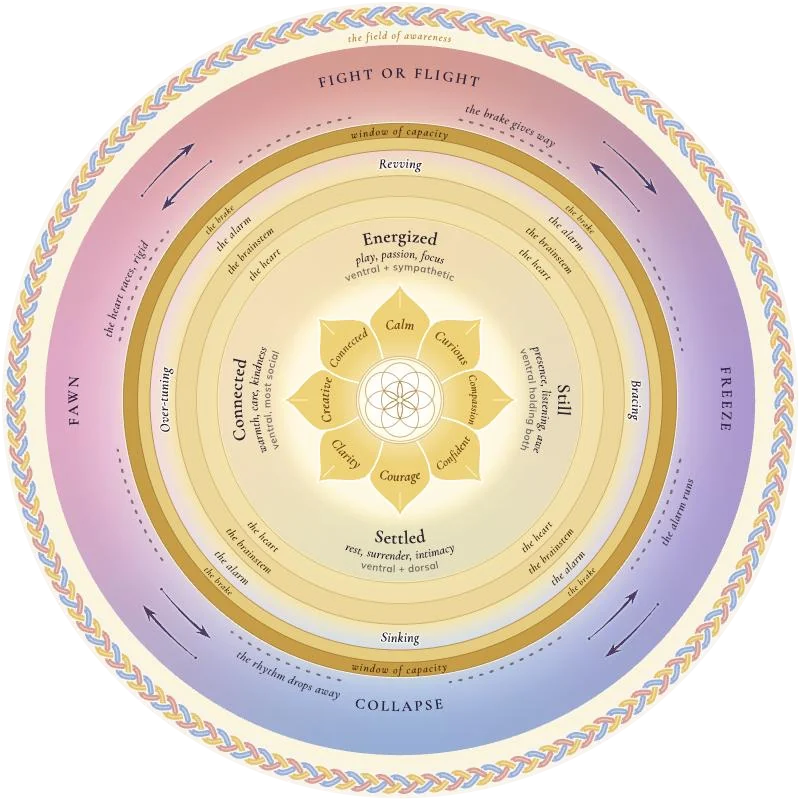
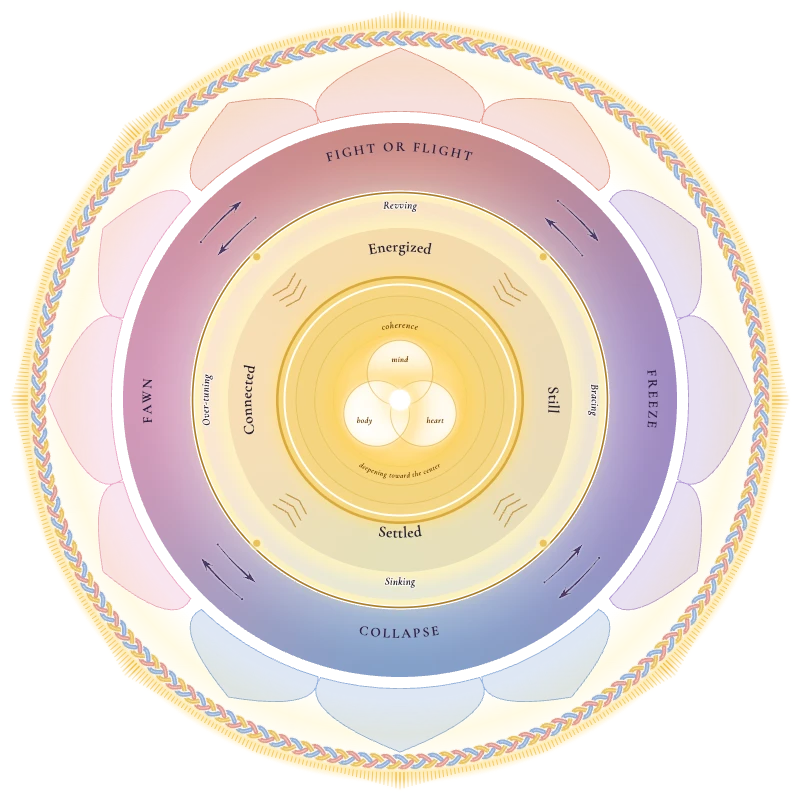
Window Mandala card: the nervous system and its rhythms, with a fresh wheel

diff --git a/index.html b/index.html
@@ -100,9 +100,9 @@ const MANDALAS=[
    text:"A map for returning to your own earliest story: the child you were at the center, the seven rights of growing up around them, and what heals each one in you now.",
    alt:"Plum petals around a Seed of Life, ringed by the seven rights of growing up"},
   {name:"The Window Mandala", href:"https://erinsarita.github.io/window-mandala/", img:"img/window.webp", imgDark:"img/window-dark.webp", themeKey:"wm-theme",
-   eyebrow:"The nervous system and the Self", tint:["#A8771E","#E8C46C"],
-   text:"A map of the window of capacity with the Self at its center, weaving together polyvagal theory, the heart-brain loop, Internal Family Systems, and awareness, with ways back home.",
-   alt:"A golden Self with eight petals at the center, ringed by the window of capacity and the four survival states"}
+   eyebrow:"The nervous system and its rhythms", tint:["#A8771E","#E8C46C"],
+   text:"A map of the nervous system: coherence of mind, heart, and body at the center, the window of capacity around it, and the ring of survival beyond, with two dials for where you live and where you are, and ways back home.",
+   alt:"Three overlapping circles of light at the center, ringed by the window of capacity, the four survival states, a ring of petals, and a braid with golden rays"}
 ];
 const arrow=`<svg viewBox="0 0 16 16" fill="none" stroke="currentColor" stroke-width="1.8" stroke-linecap="round" stroke-linejoin="round" aria-hidden="true"><path d="M3 8h9M8.5 4.5 12 8l-3.5 3.5"/></svg>`;
 document.getElementById("grid").innerHTML=MANDALAS.map(m=>`<li><a class="card" href="${m.href}" style="--tint-l:${m.tint[0]};--tint-d:${m.tint[1]}">
